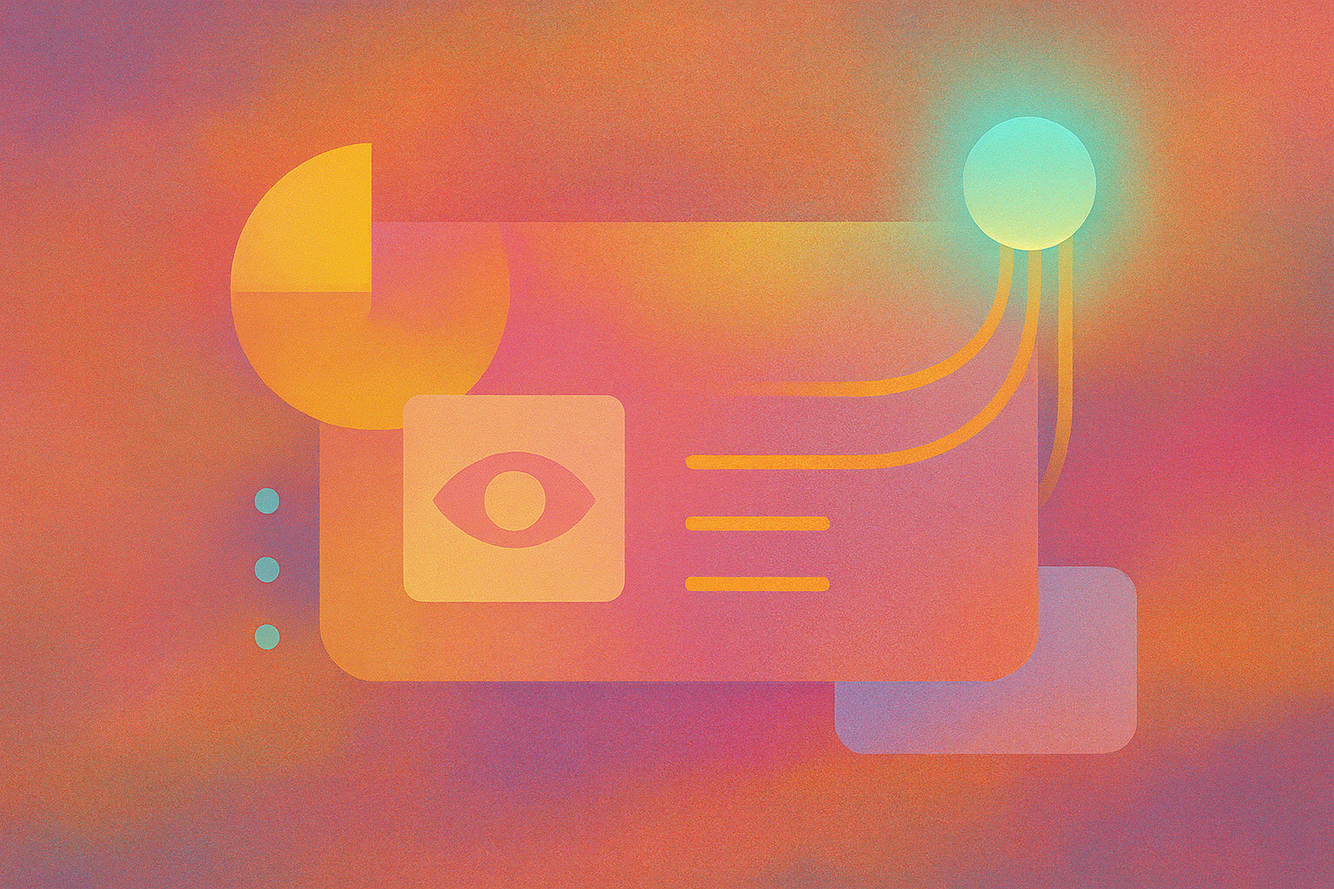
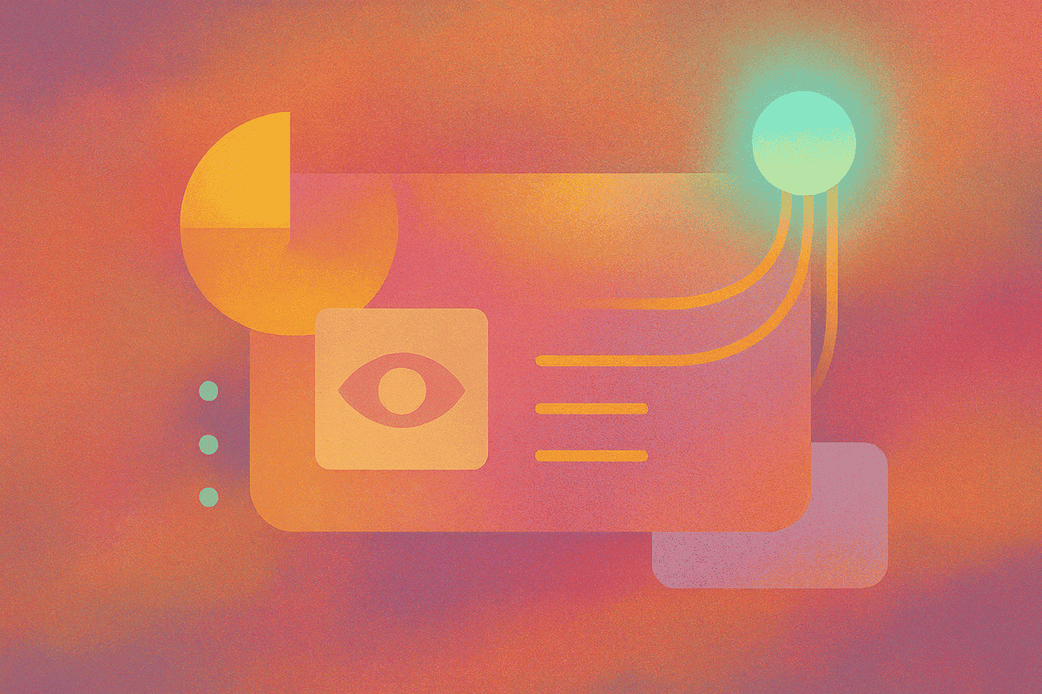
SEO fixes: sitemap, robots.txt, polyfill removal, image compression
- Add sitemap.xml with all 20 public pages
- Add robots.txt with sitemap pointer and disallow rules
- Remove deprecated polyfill-fastly.io URL from RudderStack snippet
  across all HTML pages (modern browsers don't need it)
- Compress 4 oversized images from 2.3-5.1MB to under 500KB each
- Expand projects/index.html meta description to 143 chars

diff --git a/projects/index.html b/projects/index.html
@@ -3,7 +3,7 @@
 <head>
     <meta charset="UTF-8">
     <meta name="viewport" content="width=device-width, initial-scale=1.0">
-    <meta name="description" content="Open-source tools and utilities for data infrastructure and AI workflows by James Riso.">
+    <meta name="description" content="Tools and utilities for data infrastructure and AI workflows by James Riso. Explore projects like Metabase Snapshot, Granola-to-Markdown, and more.">
     <meta name="author" content="James Riso">
     <link rel="canonical" href="https://risogroup.co/projects/" />
 
@@ -60,7 +60,7 @@
         value:r,configurable:true})}
         }(),window.rudderAnalyticsAddScript("".concat(sdkBaseUrl,"/").concat(window.rudderAnalyticsBuildType,"/").concat(sdkName),"data-rsa-write-key","2qdCnXl6U1fKfCaGAWNs9QMnbAI")
         },
-        "undefined"==typeof Promise||"undefined"==typeof globalThis?window.rudderAnalyticsAddScript("https://polyfill-fastly.io/v3/polyfill.min.js?version=3.111.0&features=Symbol%2CPromise&callback=rudderAnalyticsMount"):window.rudderAnalyticsMount()
+        window.rudderAnalyticsMount()
         ;var loadOptions={};rudderanalytics.load("2qdCnXl6U1fKfCaGAWNs9QMnbAI","https://risogroupomyxs.dataplane.rudderstack.com",loadOptions)}}}();
     </script>
 

diff --git a/insights/template.html b/insights/template.html
@@ -89,7 +89,7 @@ IMAGE WORKFLOW FOR NEW ARTICLES:
         value:r,configurable:true})}
         }(),window.rudderAnalyticsAddScript("".concat(sdkBaseUrl,"/").concat(window.rudderAnalyticsBuildType,"/").concat(sdkName),"data-rsa-write-key","2qdCnXl6U1fKfCaGAWNs9QMnbAI")
         },
-        "undefined"==typeof Promise||"undefined"==typeof globalThis?window.rudderAnalyticsAddScript("https://polyfill-fastly.io/v3/polyfill.min.js?version=3.111.0&features=Symbol%2CPromise&callback=rudderAnalyticsMount"):window.rudderAnalyticsMount()
+        window.rudderAnalyticsMount()
         ;var loadOptions={};rudderanalytics.load("2qdCnXl6U1fKfCaGAWNs9QMnbAI","https://risogroupomyxs.dataplane.rudderstack.com",loadOptions)}}}();
     </script>
 

diff --git a/engagements/data-warehouse.html b/engagements/data-warehouse.html
@@ -40,7 +40,7 @@
         value:r,configurable:true})}
         }(),window.rudderAnalyticsAddScript("".concat(sdkBaseUrl,"/").concat(window.rudderAnalyticsBuildType,"/").concat(sdkName),"data-rsa-write-key","2qdCnXl6U1fKfCaGAWNs9QMnbAI")
         },
-        "undefined"==typeof Promise||"undefined"==typeof globalThis?window.rudderAnalyticsAddScript("https://polyfill-fastly.io/v3/polyfill.min.js?version=3.111.0&features=Symbol%2CPromise&callback=rudderAnalyticsMount"):window.rudderAnalyticsMount()
+        window.rudderAnalyticsMount()
         ;var loadOptions={};rudderanalytics.load("2qdCnXl6U1fKfCaGAWNs9QMnbAI","https://risogroupomyxs.dataplane.rudderstack.com",loadOptions)}}}();
       </script>
     <!-- End RudderStack -->

diff --git a/engagements/embedded-dashboards.html b/engagements/embedded-dashboards.html
@@ -40,7 +40,7 @@
         value:r,configurable:true})}
         }(),window.rudderAnalyticsAddScript("".concat(sdkBaseUrl,"/").concat(window.rudderAnalyticsBuildType,"/").concat(sdkName),"data-rsa-write-key","2qdCnXl6U1fKfCaGAWNs9QMnbAI")
         },
-        "undefined"==typeof Promise||"undefined"==typeof globalThis?window.rudderAnalyticsAddScript("https://polyfill-fastly.io/v3/polyfill.min.js?version=3.111.0&features=Symbol%2CPromise&callback=rudderAnalyticsMount"):window.rudderAnalyticsMount()
+        window.rudderAnalyticsMount()
         ;var loadOptions={};rudderanalytics.load("2qdCnXl6U1fKfCaGAWNs9QMnbAI","https://risogroupomyxs.dataplane.rudderstack.com",loadOptions)}}}();
       </script>
     <!-- End RudderStack -->

diff --git a/engagements/predictive-ltv.html b/engagements/predictive-ltv.html
@@ -40,7 +40,7 @@
         value:r,configurable:true})}
         }(),window.rudderAnalyticsAddScript("".concat(sdkBaseUrl,"/").concat(window.rudderAnalyticsBuildType,"/").concat(sdkName),"data-rsa-write-key","2qdCnXl6U1fKfCaGAWNs9QMnbAI")
         },
-        "undefined"==typeof Promise||"undefined"==typeof globalThis?window.rudderAnalyticsAddScript("https://polyfill-fastly.io/v3/polyfill.min.js?version=3.111.0&features=Symbol%2CPromise&callback=rudderAnalyticsMount"):window.rudderAnalyticsMount()
+        window.rudderAnalyticsMount()
         ;var loadOptions={};rudderanalytics.load("2qdCnXl6U1fKfCaGAWNs9QMnbAI","https://risogroupomyxs.dataplane.rudderstack.com",loadOptions)}}}();
       </script>
     <!-- End RudderStack -->

diff --git a/index.html b/index.html
@@ -68,7 +68,7 @@
         value:r,configurable:true})}
         }(),window.rudderAnalyticsAddScript("".concat(sdkBaseUrl,"/").concat(window.rudderAnalyticsBuildType,"/").concat(sdkName),"data-rsa-write-key","2qdCnXl6U1fKfCaGAWNs9QMnbAI")
         },
-        "undefined"==typeof Promise||"undefined"==typeof globalThis?window.rudderAnalyticsAddScript("https://polyfill-fastly.io/v3/polyfill.min.js?version=3.111.0&features=Symbol%2CPromise&callback=rudderAnalyticsMount"):window.rudderAnalyticsMount()
+        window.rudderAnalyticsMount()
         ;var loadOptions={};rudderanalytics.load("2qdCnXl6U1fKfCaGAWNs9QMnbAI","https://risogroupomyxs.dataplane.rudderstack.com",loadOptions)}}}();
       </script>
     <!-- End RudderStack -->

diff --git a/insights/ai-companies-hiring-one-third-fewer-pms.html b/insights/ai-companies-hiring-one-third-fewer-pms.html
@@ -63,7 +63,7 @@
         value:r,configurable:true})}
         }(),window.rudderAnalyticsAddScript("".concat(sdkBaseUrl,"/").concat(window.rudderAnalyticsBuildType,"/").concat(sdkName),"data-rsa-write-key","2qdCnXl6U1fKfCaGAWNs9QMnbAI")
         },
-        "undefined"==typeof Promise||"undefined"==typeof globalThis?window.rudderAnalyticsAddScript("https://polyfill-fastly.io/v3/polyfill.min.js?version=3.111.0&features=Symbol%2CPromise&callback=rudderAnalyticsMount"):window.rudderAnalyticsMount()
+        window.rudderAnalyticsMount()
         ;var loadOptions={};rudderanalytics.load("2qdCnXl6U1fKfCaGAWNs9QMnbAI","https://risogroupomyxs.dataplane.rudderstack.com",loadOptions)}}}();
     </script>
 

diff --git a/insights/bi-tool-adoption-jan-2026.html b/insights/bi-tool-adoption-jan-2026.html
@@ -62,7 +62,7 @@
         value:r,configurable:true})}
         }(),window.rudderAnalyticsAddScript("".concat(sdkBaseUrl,"/").concat(window.rudderAnalyticsBuildType,"/").concat(sdkName),"data-rsa-write-key","2qdCnXl6U1fKfCaGAWNs9QMnbAI")
         },
-        "undefined"==typeof Promise||"undefined"==typeof globalThis?window.rudderAnalyticsAddScript("https://polyfill-fastly.io/v3/polyfill.min.js?version=3.111.0&features=Symbol%2CPromise&callback=rudderAnalyticsMount"):window.rudderAnalyticsMount()
+        window.rudderAnalyticsMount()
         ;var loadOptions={};rudderanalytics.load("2qdCnXl6U1fKfCaGAWNs9QMnbAI","https://risogroupomyxs.dataplane.rudderstack.com",loadOptions)}}}();
     </script>
 

diff --git a/insights/claude-code-hn.html b/insights/claude-code-hn.html
@@ -62,7 +62,7 @@
         value:r,configurable:true})}
         }(),window.rudderAnalyticsAddScript("".concat(sdkBaseUrl,"/").concat(window.rudderAnalyticsBuildType,"/").concat(sdkName),"data-rsa-write-key","2qdCnXl6U1fKfCaGAWNs9QMnbAI")
         },
-        "undefined"==typeof Promise||"undefined"==typeof globalThis?window.rudderAnalyticsAddScript("https://polyfill-fastly.io/v3/polyfill.min.js?version=3.111.0&features=Symbol%2CPromise&callback=rudderAnalyticsMount"):window.rudderAnalyticsMount()
+        window.rudderAnalyticsMount()
         ;var loadOptions={};rudderanalytics.load("2qdCnXl6U1fKfCaGAWNs9QMnbAI","https://risogroupomyxs.dataplane.rudderstack.com",loadOptions)}}}();
     </script>
 

diff --git a/insights/clickhouse-adoption.html b/insights/clickhouse-adoption.html
@@ -62,7 +62,7 @@
         value:r,configurable:true})}
         }(),window.rudderAnalyticsAddScript("".concat(sdkBaseUrl,"/").concat(window.rudderAnalyticsBuildType,"/").concat(sdkName),"data-rsa-write-key","2qdCnXl6U1fKfCaGAWNs9QMnbAI")
         },
-        "undefined"==typeof Promise||"undefined"==typeof globalThis?window.rudderAnalyticsAddScript("https://polyfill-fastly.io/v3/polyfill.min.js?version=3.111.0&features=Symbol%2CPromise&callback=rudderAnalyticsMount"):window.rudderAnalyticsMount()
+        window.rudderAnalyticsMount()
         ;var loadOptions={};rudderanalytics.load("2qdCnXl6U1fKfCaGAWNs9QMnbAI","https://risogroupomyxs.dataplane.rudderstack.com",loadOptions)}}}();
     </script>
 

diff --git a/insights/data-role-hiring.html b/insights/data-role-hiring.html
@@ -62,7 +62,7 @@
         value:r,configurable:true})}
         }(),window.rudderAnalyticsAddScript("".concat(sdkBaseUrl,"/").concat(window.rudderAnalyticsBuildType,"/").concat(sdkName),"data-rsa-write-key","2qdCnXl6U1fKfCaGAWNs9QMnbAI")
         },
-        "undefined"==typeof Promise||"undefined"==typeof globalThis?window.rudderAnalyticsAddScript("https://polyfill-fastly.io/v3/polyfill.min.js?version=3.111.0&features=Symbol%2CPromise&callback=rudderAnalyticsMount"):window.rudderAnalyticsMount()
+        window.rudderAnalyticsMount()
         ;var loadOptions={};rudderanalytics.load("2qdCnXl6U1fKfCaGAWNs9QMnbAI","https://risogroupomyxs.dataplane.rudderstack.com",loadOptions)}}}();
     </script>
 

diff --git a/insights/data-warehouse-goes-mainstream.html b/insights/data-warehouse-goes-mainstream.html
@@ -62,7 +62,7 @@
         value:r,configurable:true})}
         }(),window.rudderAnalyticsAddScript("".concat(sdkBaseUrl,"/").concat(window.rudderAnalyticsBuildType,"/").concat(sdkName),"data-rsa-write-key","2qdCnXl6U1fKfCaGAWNs9QMnbAI")
         },
-        "undefined"==typeof Promise||"undefined"==typeof globalThis?window.rudderAnalyticsAddScript("https://polyfill-fastly.io/v3/polyfill.min.js?version=3.111.0&features=Symbol%2CPromise&callback=rudderAnalyticsMount"):window.rudderAnalyticsMount()
+        window.rudderAnalyticsMount()
         ;var loadOptions={};rudderanalytics.load("2qdCnXl6U1fKfCaGAWNs9QMnbAI","https://risogroupomyxs.dataplane.rudderstack.com",loadOptions)}}}();
     </script>
 
